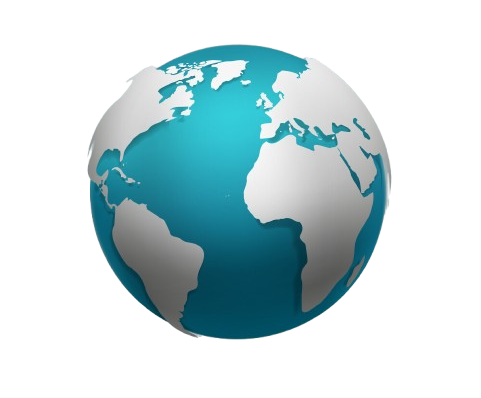
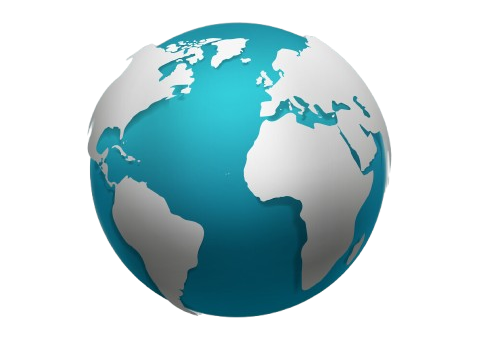
add responsive design

diff --git a/src/pages/Contact.jsx b/src/pages/Contact.jsx
@@ -10,12 +10,12 @@ const getFormData = (event) => {
 };
 const Contact = () => {
   return (
-    <div className="flex justify-center my-30">
+    <div className="flex justify-center my-25 mb-10 ">
       <div className=" flex items-center flex-col">
-        <h1 className="text-5xl">Contact Us</h1>
-        <form className="flex flex-col mt-10" onSubmit={getFormData}>
+        <h1 className="text-[40px]">Contact Us</h1>
+        <form className="flex flex-col mt-5" onSubmit={getFormData}>
           <input
-            className="border border-gray-500 my-3 px-5 py-2 rounded-xl w-120"
+            className="border border-gray-500 my-3 px-5 py-2 rounded-xl w-70 500:w-96 600:w-110 700:w-125 800:w-140"
             type="text"
             placeholder="Enter Your Name"
             name="username"
@@ -23,7 +23,7 @@ const Contact = () => {
             required
           />
           <input
-            className="border border-gray-500 my-3 px-5 py-2 rounded-xl w-120"
+            className="border border-gray-500 my-3 px-5 py-2 rounded-xl w-70 500:w-96 600:w-110 700:w-125 800:w-140"
             type="text"
             placeholder="Enter Your Password"
             name="password"
@@ -31,7 +31,7 @@ const Contact = () => {
             required
           />
           <textarea
-            className="border border-gray-500 my-3 px-5 py-2 rounded-xl w-120"
+            className="border border-gray-500 my-3 px-5 py-2 rounded-xl w-70 500:w-96 600:w-110 700:w-125 800:w-140"
             placeholder="Enter Your Message"
             name="message"
             autoComplete="off"
@@ -39,7 +39,7 @@ const Contact = () => {
             rows="10"
           />
           <button
-            className="bg-[#202020] cursor-pointer text-xl border border-gray-500 my-3 px-5 py-2 rounded-xl w-120 text-start"
+            className="bg-[#202020] cursor-pointer text-xl border border-gray-500 my-3 px-5 py-2 rounded-xl w-70 500:w-96 600:w-110 700:w-125 800:w-140 text-start"
             type="submit"
           >
             Send

diff --git a/src/components/UI/SearchFilter.jsx b/src/components/UI/SearchFilter.jsx
@@ -20,24 +20,24 @@ const SearchFilter = ({ search, setSearch, filter, setFilter, countries, setCoun
   }
 
   return (
-    <div className="flex justify-around items-center h-25 mb-5">
+    <div className=" grid grid-cols-1 600:grid-cols-2 900:grid-cols-4 items-center justify-items-center gap-3 mb-5">
       <input
-        className="border border-gray-500 my-3 px-5 py-2 rounded-xl w-60 h-10"
+        className="border border-gray-500 my-3 px-5 py-2 rounded-xl w-60 700:w-70 h-10 900:w-60"
         type="text"
         placeholder="Search Country"
         value={search}
         onChange={(e) => setSearch(e.target.value)}
       />
       
-      <button onClick={() => sortCountries("ASC")} className=" bg-gray-800 px-8 py-2 h-10 rounded-full border border-gray-400 cursor-pointer">Ascending Order</button>
-      <button onClick={() => sortCountries("DESC")} className=" bg-gray-800 px-8 py-2 h-10 rounded-full border border-gray-400 cursor-pointer">Descending Order</button>
+      <button onClick={() => sortCountries("ASC")} className=" bg-gray-800 px-8 py-2 h-10 rounded-full border border-gray-400 cursor-pointer w-60 700:w-70 900:w-40 900:ml-10 ">Ascending</button>
+      <button onClick={() => sortCountries("DESC")} className=" bg-gray-800 px-8 py-2 h-10 rounded-full border border-gray-400 cursor-pointer w-60 700:w-70 900:w-40 ">Descending</button>
       <select
-        className="border cursor-pointer border-gray-500 h-10 my-3 px-5 py-2 rounded-xl w-60 bg-black text-gray-500 outline-none"
+        className="border cursor-pointer border-gray-500 h-10 my-3 px-5 py-2 rounded-xl w-60 700:w-70 900:w-40 bg-black text-gray-500 outline-none"
         value={filter}
         onChange={(e) => setFilter(e.target.value)}
       >
         {filterObj.map((currOption) => (
-          <option className="cursor-pointer" value={currOption.value}>{currOption.display}</option>
+          <option className="cursor-pointer text-sm" value={currOption.value}>{currOption.display}</option>
         ))}
       </select>
     </div>

diff --git a/src/components/UI/Header.jsx b/src/components/UI/Header.jsx
@@ -21,14 +21,14 @@ const Header = () => {
         </NavLink>
 
         <nav className="hidden md:block">
-          <ul className="flex justify-end gap-8 text-white">
+          <ul className="flex justify-end gap-8 text-white text-base lg:text-lg">
             {navItems.map(({ name, path }) => (
               <li key={name}>
                 <NavLink
-                onClick={() => window.scrollTo(0, 0)}
+                  onClick={() => window.scrollTo(0, 0)}
                   to={path}
                   className={({ isActive }) =>
-                    isActive ? "border-b-2 border-white" : ""
+                    isActive ? "border-b-2 border-white" : "" 
                   }
                 >
                   {name}
@@ -54,7 +54,7 @@ const Header = () => {
 
         {showNav && (
           <nav className="absolute left-0 top-20 w-full bg-[#202020] z-50">
-            <ul className="flex items-center flex-col gap-6 py-3 text-white">
+            <ul className="flex items-center flex-col text-[18px] gap-6 py-3 text-white ">
               {navItems.map(({ name, path }) => (
                 <li key={name}>
                   <NavLink
@@ -62,7 +62,10 @@ const Header = () => {
                     className={({ isActive }) =>
                       isActive ? "border-b-2 border-white" : ""
                     }
-                    onClick={() => setShowNav(false)}
+                    onClick={() => {
+                      setShowNav(false);
+                      window.scrollTo(0, 0);
+                    }}
                   >
                     {name}
                   </NavLink>

diff --git a/src/components/layout/CountryDetails.jsx b/src/components/layout/CountryDetails.jsx
@@ -36,15 +36,15 @@ const CountryDetails = () => {
   } = country;
 
   return (
-    <div className="content">
-      <div className="grid grid-cols-2 gap-10 h-[96vh] items-center">
+    <div className="content mt-20 p-5">
+      <div className="grid grid-cols-1 text-left justify-items-left items-center">
         {country && (
           <>
-            <div>
-              <img className="size-80 object-contain" src={flags.svg} alt="" />
+            <div className="mt-5">
+              <img className="size-40 object-contain" src={flags.svg} alt="" />
             </div>
-            <div className="flex flex-col gap-2 mt-5">
-              <h1 className="text-4xl font-semibold">{name.official}</h1>
+            <div className="flex flex-col gap-2 text-sm py-5">
+              <h1 className="text-2xl my-5 font-bold tracking-wider">{name.official}</h1>
               <p>
                 <span className="font-semibold underline underline-offset-4">Native names :</span>{" "}
                 {Object.keys(name.nativeName)
@@ -88,7 +88,7 @@ const CountryDetails = () => {
                 )}
               </p>
               <NavLink to="/country">
-                <button className="inline-flex items-center gap-3 bg-gray-800 px-6 py-1 -ml-1 rounded-xl border border-gray-400 cursor-pointer mt-2">Go Back  <FaLongArrowAltRight/> </button>
+                <button className="inline-flex items-center gap-3 bg-gray-800 px-6 py-1 my-1 -ml-1 rounded-xl border border-gray-400 cursor-pointer mt-2">Go Back  <FaLongArrowAltRight/> </button>
               </NavLink>
             </div>
           </>

diff --git a/src/components/UI/Footer.jsx b/src/components/UI/Footer.jsx
@@ -12,8 +12,8 @@ const Footer = () => {
     TbMailPlus: <TbMailPlus />,
   };
   return (
-    <footer className="h-20 bg-[#151414] font-poppins">
-      <div className="content grid grid-cols-3 gap-10 h-20 items-center">
+    <footer className="bg-[#151414] font-poppins">
+      <div className="content grid grid-cols-1 700:grid-cols-2 700:gap-7 lg:grid-cols-3 text-sm gap-10 items-center py-5">
         {FooterData.map((currObj) => {
           const { title, icon, details } = currObj;
           return (
@@ -27,13 +27,13 @@ const Footer = () => {
           );
         })}
       </div>
-      <div className="bg-[#202020] h-18">
-        <div className="h-18 content grid grid-cols-2 items-center">
-          <div className="text-[#878787]">
+      <div className="bg-[#202020]">
+        <div className="content grid grid-cols-1 lg:grid-cols-2 lg:text-left items-center text-center  gap-2 py-5">
+          <div className="text-[#878787] leading-6">
             Copyright &copy; 2024, All Right Reserved
           </div>
           <div>
-            <ul className="flex gap-5 justify-end text-[#878787]">
+            <ul className="flex flex-col lg:flex-row lg:justify-end gap-2 text-[#878787]">
               <li className="hover:text-white">
                 <NavLink
                   to="/"

diff --git a/src/components/UI/HeroSection.jsx b/src/components/UI/HeroSection.jsx
@@ -4,10 +4,10 @@ import { NavLink } from "react-router-dom";
 
 const HeroSection = () => {
   return (
-    <main className="mt-20">
-      <div className="content h-auto grid grid-cols-2 items-center py-5 my-6 gap-10">
+    <main className="mt-20 400:text-center 800:text-left">
+      <div className="content h-auto grid grid-cols-1 800:grid-cols-2 items-center py-5 my-6">
         <div>
-          <h1 className="text-4xl leading-12 font-semibold mb-2">
+          <h1 className="text-[28px] lg:text-[32px] leading-10 font-semibold mb-2">
             Discover the World, One Country at a Time.
           </h1>
           <p className="text-lg leading-6 mb-4">
@@ -21,9 +21,9 @@ const HeroSection = () => {
             </button>
           </NavLink>
         </div>
-        <div className="flex items-center justify-center">
+        <div className="flex items-center justify-center lg:justify-end">
           <img
-            className="size-100 object-cover"
+            className="size-70 800:size-80 lg:size-90 mt-4 object-cover"
             src="/images/globe.png"
             alt=""
           />

diff --git a/src/pages/About.jsx b/src/pages/About.jsx
@@ -5,13 +5,13 @@ import CountryInterestingFacts from "../components/layout/CountryInterestingFact
 
 const About = () => {
   return (
-    <div className="content flex flex-col justify-center mt-30 mb-12 font-poppins tracking-wide">
-      <h1 className="text-3xl font-semibold text-center tracking-wider leading-10">
+    <div className="content flex flex-col justify-center mb-12 font-poppins tracking-wide">
+      <h1 className="text-3xl font-fira font-semibold text-center tracking-wider leading-10 mt-25">
         Explore Fascinating Facts About
         <br />
         Our World
       </h1>
-      <div className="content justify-items-center grid grid-cols-3 gap-5 mt-10">
+      <div className="content justify-items-center grid grid-cols-1 700:grid-cols-2 lg:grid-cols-3 gap-5 mt-10">
         {CountriesData.map((currCountry) => {
           return <CountryInterestingFacts key={currCountry.id} currCountry={currCountry}/>
         })}

diff --git a/src/components/layout/CountryCard.jsx b/src/components/layout/CountryCard.jsx
@@ -6,7 +6,7 @@ const CountryCard = ({ currCountry }) => {
   const { flags, name, population, region, capital } = currCountry;
 
   return (
-    <li className="flex flex-col justify-center bg-[#2e2e2e] items-center w-65 border border-gray-500 px-5 py-4 rounded-2xl shadow-[1px_1px_5px_2px_#2e2e2e] hover:shadow-[1px_1px_5px_5px_#2e2e2e] duration-300 shadow-gray-500 hover:scale-103 transition-all">
+    <li className="flex flex-col justify-center bg-[#2e2e2e] items-center w-65 450:w-85 600:w-65 700:w-75 900:w-65 1100:w-77 xl:w-65 2xl:w-77 border border-gray-500 px-5 py-4 rounded-2xl shadow-[1px_1px_5px_2px_#2e2e2e] hover:shadow-[1px_1px_5px_5px_#2e2e2e] duration-300 shadow-gray-500 hover:scale-103 transition-all">
       <div>
         <img
           className="object-contain w-60 h-30 my-2"

diff --git a/src/pages/Country.jsx b/src/pages/Country.jsx
@@ -36,7 +36,7 @@ const Country = () => {
   );
 
   return (
-    <div className="content min-h-[48.5vh] mt-30 mb-10">
+    <div className="content min-h-[48.5vh] mt-25 mb-10">
       <SearchFilter
         search={search}
         setSearch={setSearch}
@@ -45,7 +45,7 @@ const Country = () => {
         countries={countries}
         setCountries={setCountries}
       />
-      <ul className="grid grid-cols-4 gap-7 justify-items-center">
+      <ul className="grid grid-cols-1 600:grid-cols-2 600:gap-15 900:grid-cols-3 xl:grid-cols-4 gap-7 justify-items-center">
         {filteredCountries.map((currCountry) => {
           return (
             <CountryCard

diff --git a/src/components/layout/CountryInterestingFacts.jsx b/src/components/layout/CountryInterestingFacts.jsx
@@ -6,9 +6,9 @@ const CountryInterestingFacts = ({ currCountry }) => {
   return (
     <div
       key={id}
-      className="bg-gradient-to-br from-[#080509] via-[#1d1919] to-[#080509] p-8 mx-3 border border-gray-500 rounded-2xl"
+      className="bg-gradient-to-br from-[#080509] via-[#1d1919] to-[#080509] p-8 mx-3 my-2 border border-gray-500 rounded-2xl"
     >
-      <div className="text-sm tracking-tight">
+      <div className="text-sm tracking-tight min-w-55 700:min-w-58 lg:min-w-52">
         <h1 className="text-2xl mb-4 font-semibold underline underline-offset-4">
           {countryName}
         </h1>

diff --git a/src/index.css b/src/index.css
@@ -3,6 +3,15 @@
 
 @theme {
   --font-poppins: "Poppins";
+  --font-fira : "Fira code", sans-serif;
+  --breakpoint-400:400px;
+  --breakpoint-450 : 450px;
+  --breakpoint-500: 500px;
+  --breakpoint-600: 600px;
+  --breakpoint-700: 700px;
+  --breakpoint-800: 800px;
+  --breakpoint-900:900px;
+  --breakpoint-1100:1100px;
 }
 
 @layer base {

diff --git a/src/pages/Home.jsx b/src/pages/Home.jsx
@@ -6,7 +6,9 @@ const Home = () => {
   return (
     <>
       <HeroSection />
+      <div className="-mt-25">
       <About />
+      </div>
     </>
   );
 };
